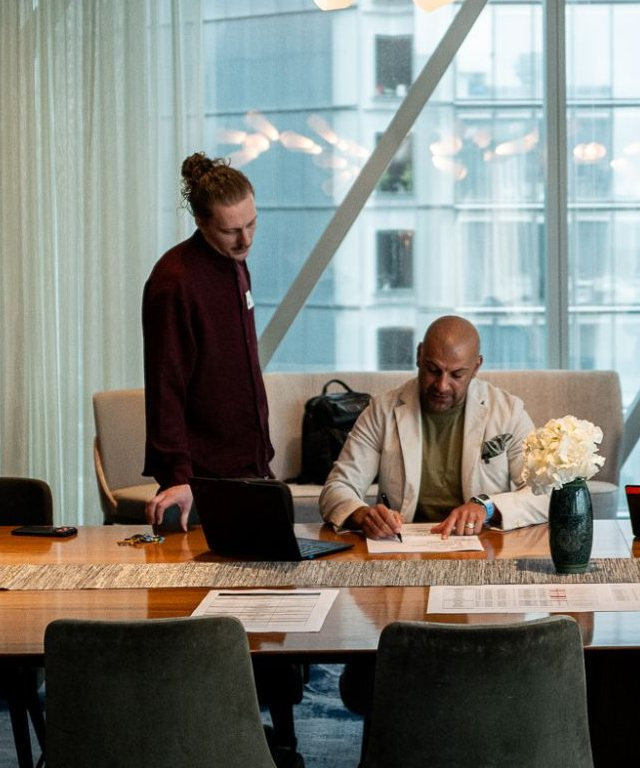
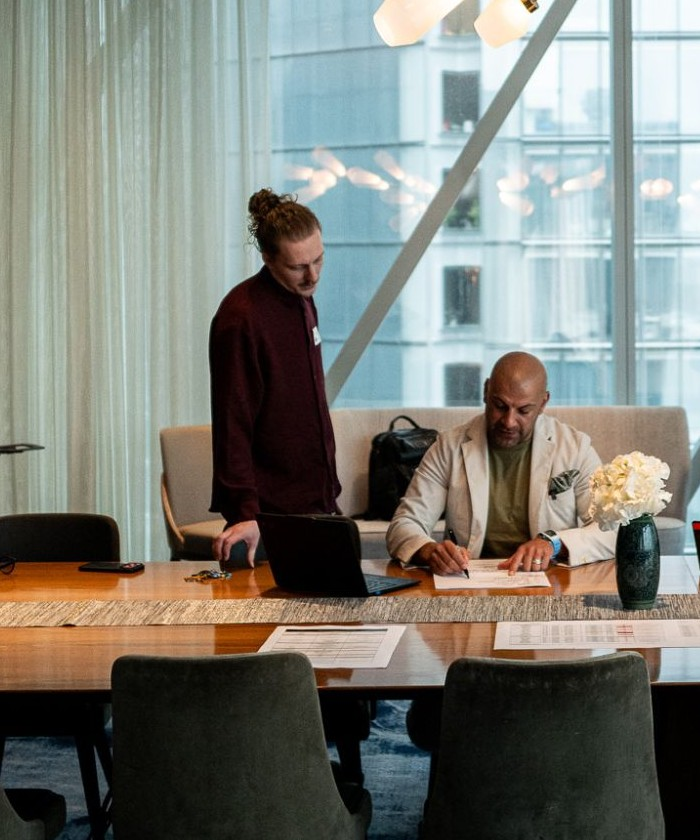
New view: live site founder build and pink button, plain heroes, home three line hero with lockup, slider fixes
Claude-Session: https://claude.ai/code/session_01XgXXmPFYXMwyNqjcZzudWm

diff --git a/tools-preview/next.html b/tools-preview/next.html
@@ -195,6 +195,12 @@
   background:linear-gradient(to bottom,rgba(45,226,195,.46),rgba(45,226,195,.1) 55%,rgba(45,226,195,0))}
 .hero .lead{margin-top:26px;color:#ECE8E0}
 .hero .row{margin-top:34px}
+/* home: the lockup above the heading, and the heading on the live site's three lines */
+.hero__logo{margin:0 0 clamp(18px,2.4vw,32px) calc(var(--gut) * -.2)}
+.hero__logo .hl-stage{position:relative;transform:none;font-size:clamp(20px,3.1vw,46px);justify-content:flex-start;padding:0 0 0 .2em;width:12em;height:4.4em}
+.d1--lines{max-width:none;font-size:clamp(30px,4.3vw,78px)}
+.d1--lines .ln{display:block;white-space:nowrap}
+@media (max-width:620px){.d1--lines .ln{white-space:normal}}
 .hero .btn:not(.btn--go){color:#ECE8E0}
 .hero .btn:not(.btn--go):hover{color:#0A0A0A}
 .hero .btn:not(.btn--go)::before{background:#ECE8E0}
@@ -323,13 +329,17 @@
 .facts span{display:block;margin-top:8px;font-size:13.5px;color:var(--mute)}
 @media (max-width:900px){.found{grid-template-columns:1fr}.found .px{max-width:440px}}
 /* the live site's build: copy on the left with the signature under the heading, photo on the right */
-.found--flip{grid-template-columns:minmax(0,5fr) minmax(0,6fr);gap:clamp(32px,5vw,88px)}
+/* the live site's pair: two equal columns, the photo a 4:5 frame held at 62% across */
+.found--flip{grid-template-columns:repeat(2,minmax(0,1fr));gap:clamp(24px,4vw,64px);align-items:center}
 .found--flip h2{white-space:nowrap;font-size:clamp(34px,4.3vw,66px)}
-.found--flip .px{aspect-ratio:auto;height:min(80vh,780px);max-width:none}
-.btn--pink{background:#FF2D6B;border-color:#FF2D6B;color:#0A0A0A;box-shadow:inset 0 0 14px 1px rgba(0,0,0,.25)}
+.found--flip .px{aspect-ratio:4/5;max-width:none}
+.found__ph img{object-position:62% 50%;scale:calc(var(--gs,1.12) - .12);translate:none}
+/* the live site's pink button: the fill clipped inside a rim at 45 percent, a soft dark vignette inside */
+.btn--pink{background:#FF2D6B;background-clip:padding-box;border-color:rgba(255,45,107,.45);color:#0A0A0A;box-shadow:inset 0 0 14px 1px rgba(0,0,0,.34)}
 .btn--pink::before{background:#FF5586}
-.btn--pink:hover{color:#0A0A0A;border-color:#FF5586}
-.found__sig{display:block;width:clamp(170px,16vw,240px);margin:14px 0 0 -4px;color:var(--fg)}
+.btn--pink:hover{color:#0A0A0A;border-color:rgba(255,45,107,.45)}
+.btn--pink::before{z-index:-1}
+.found__sig{display:block;width:clamp(160px,18vw,210px);margin:14px 0 0 -4px;color:var(--fg);opacity:.94}
 .found__sig svg{width:100%;height:auto;fill:currentColor;display:block}
 @media (max-width:900px){.found--flip{grid-template-columns:minmax(0,1fr)}.found--flip .px{order:-1}}
 /* Ryan's 'where I learned' photo: wider, reaching out past the column on the left, and it
@@ -672,8 +682,9 @@
 .said__ph img{scale:calc(var(--gs,1.12) - .12);translate:none;object-position:50% 40%}
 /* two photos that take turns, always sliding off to the left on a speed ramp */
 .slider{position:relative}
-.slider img{position:absolute;inset:0;translate:135% 0}
-.slider img.is-shown{translate:0 0}
+/* each photo has its own clipped frame, so the zoom stays inside it and the two slide touching */
+.slider .sl{position:absolute;inset:0;overflow:hidden;translate:100% 0}
+.slider .sl.is-shown{translate:0 0}
 .said{font:500 clamp(28px,3.4vw,52px)/1.2 var(--body);letter-spacing:-.025em;margin:0;max-width:24ch}
 .who-said{display:flex;align-items:center;gap:14px;margin-top:30px}
 .who-said i{width:56px;height:56px;border-radius:50%;display:grid;place-items:center;background:#fff;overflow:hidden;flex:none}
@@ -731,8 +742,8 @@
       <div class="hero__ph"><img src="assets/img/hero-foh.jpg" alt=""></div>
       <div class="lamp" aria-hidden="true"></div>
       <div class="wrap">
-        <h1 class="d d1" data-split>Helping founders in live events &amp; production grow through partnerships</h1>
-        <p class="lead">Headliner Group is Ryan Tayler&rsquo;s partnership group.</p>
+        <div class="hero__logo" aria-hidden="true"><div class="hl-stage"><div class="hl-logo"><div class="hl-beam"></div><span class="hl-word">Headliner</span><div class="hl-group">Group</div></div></div></div>
+        <h1 class="d d1 d1--lines" data-split><span class="ln">Helping founders in</span> <span class="ln">live events &amp; production</span> <span class="ln">grow through partnerships</span></h1>
         <div class="row">
           <a class="btn btn--go" href="#contact" data-go="contact">Book a call</a>
           <a class="btn" href="#free" data-go="free">Get the free tools</a>
@@ -826,7 +837,7 @@
           <p class="p">My goal is to use this experience to be in business with, or partnered into, every area of live events and production in Australia.</p>
           <div class="row" style="margin-top:30px"><a class="btn btn--pink" href="#ryan" data-go="ryan">More about Ryan</a></div>
         </div>
-        <div class="px grow" data-grow><img src="assets/img/ryan-hero-900.jpg" alt="Ryan Tayler" style="object-position:84% 44%;transform-origin:66% 44%"></div>
+        <div class="px grow found__ph" data-grow><img src="assets/img/ryan-hero.jpg" alt="Ryan Tayler"></div>
       </div>
     </section>
 
@@ -859,7 +870,6 @@
       <div class="lamp" aria-hidden="true"></div>
       <div class="wrap">
         <h1 class="d d1" data-split>Partner with us</h1>
-        <p class="lead">Three paid ways to get partnerships working in your business, and one long-term partnership for equity.</p>
         <div class="row"><a class="btn btn--go" href="#contact" data-go="contact">Book a call</a></div>
       </div>
       </div>
@@ -870,7 +880,7 @@
         <div class="sh"><h2 class="d d2" data-split>Partner with us</h2></div>
         <div class="deals">
           <article class="deal">
-            <header class="deal__h"><span>No. 01</span><b>Paid</b></header>
+            <header class="deal__h"><span>No. 01</span></header>
             <h3>Partnership consulting</h3>
             <p>We sit down with you and go through the business across the 4 pillars. Revenue, margin, reach and connection.</p>
             
@@ -878,7 +888,7 @@
             <footer class="deal__s"><a class="btn" href="#contact" data-go="contact">Book a call</a></footer>
           </article>
           <article class="deal">
-            <header class="deal__h"><span>No. 02</span><b>Paid</b></header>
+            <header class="deal__h"><span>No. 02</span></header>
             <h3>Partnership negotiation</h3>
             <p>Everything in the consulting, and then we do the work. We go to the other side and negotiate the deal for you.</p>
             
@@ -886,7 +896,7 @@
             <footer class="deal__s"><a class="btn" href="#contact" data-go="contact">Book a call</a></footer>
           </article>
           <article class="deal">
-            <header class="deal__h"><span>No. 03</span><b>Paid</b></header>
+            <header class="deal__h"><span>No. 03</span></header>
             <h3>Advisory</h3>
             <p>Regular time with Ryan to keep the plan moving, and someone to hold you to it.</p>
             <div class="seg" role="group" aria-label="How often"><button type="button" data-cad="w" aria-pressed="true">Weekly</button><button type="button" data-cad="f" aria-pressed="false">Fortnightly</button><button type="button" data-cad="m" aria-pressed="false">Monthly</button></div>
@@ -894,7 +904,7 @@
             <footer class="deal__s"><a class="btn" href="#contact" data-go="contact">Book a call</a></footer>
           </article>
           <article class="deal deal--eq">
-            <header class="deal__h"><span>No. 04</span><b>Equity</b></header>
+            <header class="deal__h"><span>No. 04</span></header>
             <h3>Long-term partnership</h3>
             <p>We take a minority stake and work on the business with you for the long term. There&rsquo;s no fee. We only do well if the business grows.</p>
             
@@ -1108,7 +1118,7 @@
 
     <section class="sec">
       <div class="wrap found found--wide">
-        <div class="px grow slider" data-grow data-slider><img class="is-shown" src="assets/img/ryan-foh.jpg" alt="Ryan Tayler and Aaron Sansoni front of house at a live event" style="transform-origin:45% 35%"><img src="assets/img/ryan-aaron-board.jpg" alt="Ryan Tayler with Aaron Sansoni as he signs at the boardroom table" style="transform-origin:50% 45%"></div>
+        <div class="px grow slider" data-grow data-slider><div class="sl is-shown"><img src="assets/img/ryan-foh.jpg" alt="Ryan Tayler and Aaron Sansoni front of house at a live event" style="transform-origin:45% 35%"></div><div class="sl"><img src="assets/img/ryan-aaron-board.jpg" alt="Ryan Tayler with Aaron Sansoni as he signs at the boardroom table" style="transform-origin:50% 45%"></div></div>
         <div>
           <h2 class="d d2" data-split>Where I learned the business</h2>
           <p class="p fade" style="margin-top:28px">Early in my career I worked for <span class="swipe">Aaron Sansoni<svg viewBox="0 0 300 100" preserveAspectRatio="none" aria-hidden="true"><path d="M10 54C90 46 200 44 290 50"/></svg></span>, Australia&rsquo;s #1 business mentor, and that&rsquo;s where I learned how business is built. In 4 years I grew from a junior to General Manager of his largest business, which focused on live events and business coaching.</p>
@@ -1181,7 +1191,6 @@
       <div class="lamp" aria-hidden="true"></div>
       <div class="wrap">
         <h1 class="d d1" data-split>Free sh!t</h1>
-        <p class="lead">Free tools and assets you or your team could use in the business this week to start optimising straight away.</p>
         <div class="row"><a class="btn" href="#everything" data-jump="everything">Take the whole lot</a></div>
       </div>
       </div>
@@ -1256,7 +1265,6 @@
       <div class="lamp" aria-hidden="true"></div>
       <div class="wrap">
         <h1 class="d d1" data-split>Book a call</h1>
-        <p class="lead">A first call to talk about your business and which way of working with us fits.</p>
       </div>
       </div>
     </section>
@@ -1548,13 +1556,13 @@
     if(!current||!live()||reduce) return;
     $$('[data-slider]',current).forEach(function(sl){
       var r=sl.getBoundingClientRect(); if(r.bottom<0||r.top>innerHeight) return;
-      var ims=$$('img',sl), i=ims.findIndex(function(m){ return m.classList.contains('is-shown'); }), a=ims[i], b=ims[(i+1)%ims.length];
-      var o={duration:1150,easing:'cubic-bezier(.78,0,.18,1)',fill:'forwards'};
+      var ims=$$('.sl',sl), i=ims.findIndex(function(m){ return m.classList.contains('is-shown'); }), a=ims[i], b=ims[(i+1)%ims.length];
+      var o={duration:1500,easing:'cubic-bezier(.78,0,.18,1)',fill:'forwards'};
       a.getAnimations().forEach(function(x){ x.cancel(); }); b.getAnimations().forEach(function(x){ x.cancel(); });
-      a.animate([{translate:'0 0'},{translate:'-135% 0'}],o); b.animate([{translate:'135% 0'},{translate:'0 0'}],o);
+      a.animate([{translate:'0 0'},{translate:'-100% 0'}],o); b.animate([{translate:'100% 0'},{translate:'0 0'}],o);
       a.classList.remove('is-shown'); b.classList.add('is-shown');
     });
-  },4600);
+  },7400);
 
   /* advisory rhythm */
   var CAD={w:'A call with Ryan every week',f:'A call with Ryan every fortnight',m:'A call with Ryan every month'};

diff --git a/CONTENT-DECISIONS.md b/CONTENT-DECISIONS.md
@@ -2888,3 +2888,18 @@ Ryan's brief, written at the length he gave it.
 - **The consulting photo is Ryan's own recolour**, zoomed out so his hand on the left and his
   shoulder on the right stay in frame.
 - **Cory Hoyling's quote carries the Shadow AV logo** in place of the initials.
+
+## The new view, back to the live site's bones, 2 November 2026
+
+- **Our founder uses the live site's build**: two equal columns, the 1800px photo in a 4:5
+  frame held at 62 percent across, the signature at the live size, and the live pink button
+  with its rim at 45 percent and the dark vignette inside.
+- **No "Paid" or "Equity" tags** on the four agreements. They keep their numbers.
+- **No subheadings in the heroes**, every page. Ryan's own line on his page stays.
+- **Home hero sits on the live site's three lines**: "Helping founders in / live events &
+  production / grow through partnerships", sized so the longest line fits the width, with
+  the full lockup, beam and all, above it.
+- **Ryan and Aaron slider**: the boardroom shot is cut from Ryan's high resolution file to
+  just the two of them. Each photo sits in its own clipped frame so the two slide touching,
+  with no gap. The slide runs slower (1.5 seconds) and each photo holds about 70 percent
+  longer before it goes.
